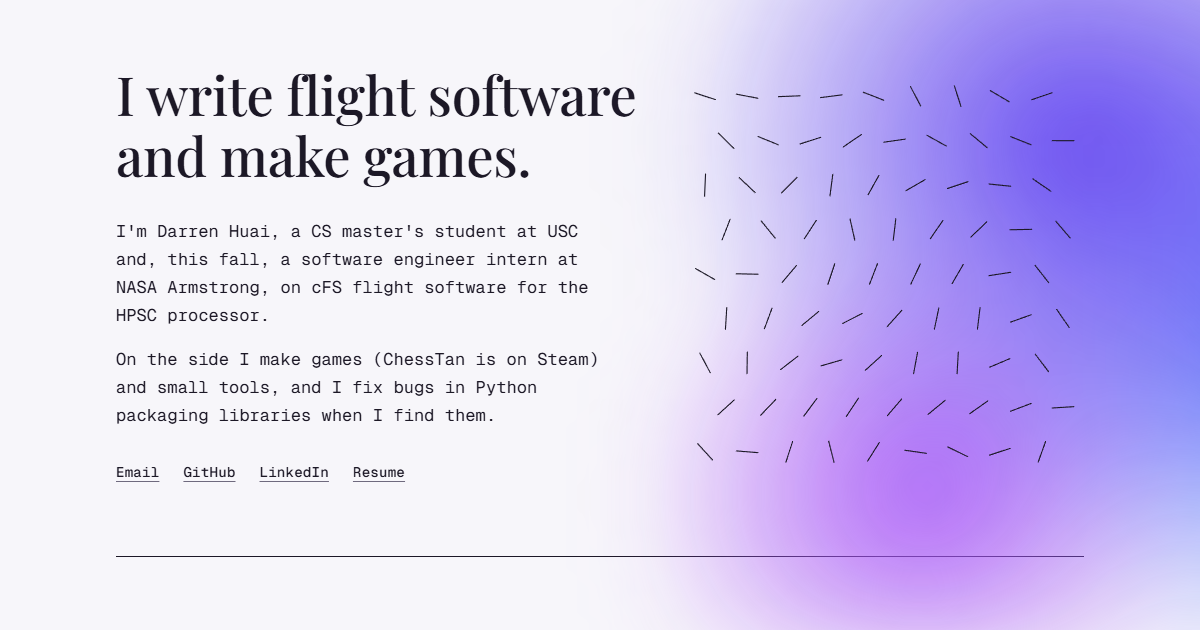
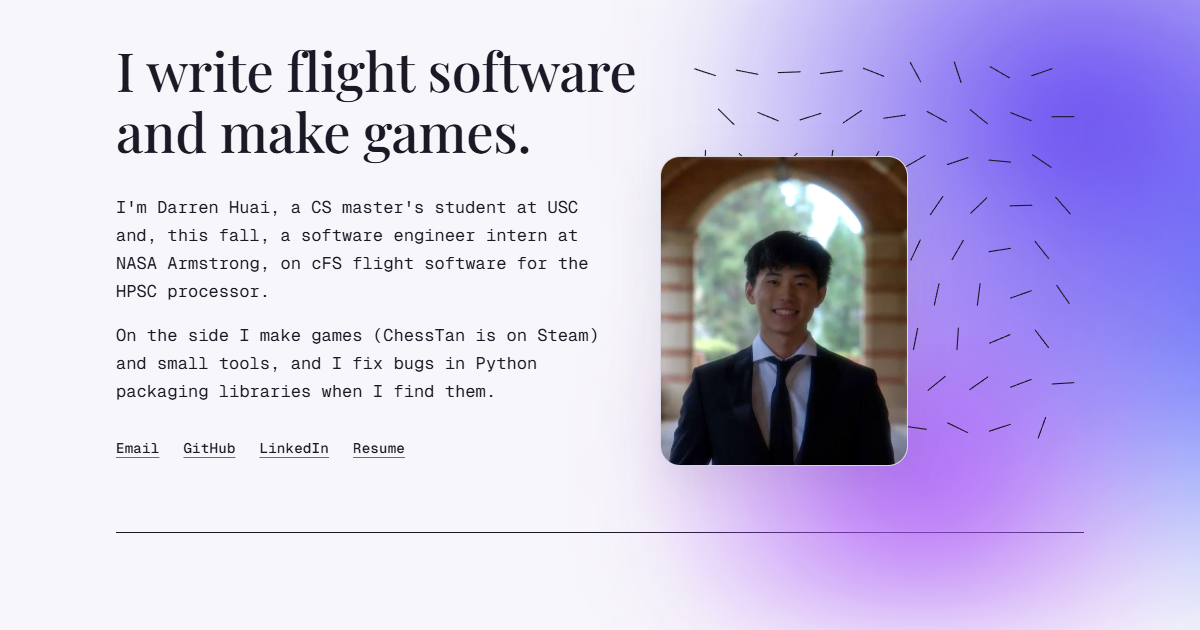
Put the portrait in the hero, over the wash and the tick field

diff --git a/index.html b/index.html
@@ -24,6 +24,7 @@
   <link rel="icon" href="img/favicon.svg" type="image/svg+xml">
   <link rel="preload" href="fonts/playfair-var.woff2" as="font" type="font/woff2" crossorigin>
   <link rel="preload" href="fonts/geistmono-var.woff2" as="font" type="font/woff2" crossorigin>
+  <link rel="preload" as="image" imagesrcset="img/pro_pic-480.webp 480w, img/pro_pic.webp 960w" imagesizes="(min-width: 1024px) 250px, (min-width: 900px) 30vw, 60vw" fetchpriority="high">
   <script>document.documentElement.classList.add("js")</script>
   <link rel="stylesheet" href="styles.css">
   <script type="importmap">{"imports":{"three":"https://cdn.jsdelivr.net/npm/three@0.170.0/build/three.module.min.js"}}</script>
@@ -82,8 +83,14 @@
               <a href="resume.html">Resume</a>
             </p>
           </div>
-          <div class="field-box" aria-hidden="true">
-            <canvas id="hero-field"></canvas>
+          <div class="field-box">
+            <canvas id="hero-field" aria-hidden="true"></canvas>
+            <figure class="plate hero-portrait">
+              <picture>
+                <source type="image/webp" srcset="img/pro_pic-480.webp 480w, img/pro_pic.webp 960w" sizes="(min-width: 1024px) 250px, (min-width: 900px) 30vw, 60vw">
+                <img src="img/pro_pic.jpg" srcset="img/pro_pic-480.jpg 480w, img/pro_pic.jpg 960w" sizes="(min-width: 1024px) 250px, (min-width: 900px) 30vw, 60vw" width="960" height="1200" fetchpriority="high" decoding="async" alt="Darren Huai">
+              </picture>
+            </figure>
           </div>
         </div>
         <hr class="rule hero-rule">
@@ -342,12 +349,6 @@
             <p>As of October 2026: I'm at NASA Armstrong through December. ChessTan 1.1, a rules simplification, is in progress on a branch, and watchglass has fixes queued for v0.1.9. I'm also prototyping a co-op game for one to eight players in Godot, which isn't public yet. Six of my pull requests are open upstream. I finish at USC in May 2027 and I'm looking for 2027 internships and new-grad software engineering roles.</p>
             <p class="about-facts">Los Angeles. US citizen. <a href="mailto:darrenhuai@gmail.com">darrenhuai@gmail.com</a>.</p>
           </div>
-          <figure class="plate portrait" data-reveal="rise">
-            <picture>
-              <source type="image/webp" srcset="img/pro_pic-480.webp 480w, img/pro_pic.webp 960w" sizes="(min-width: 900px) 360px, 100vw">
-              <img src="img/pro_pic.jpg" srcset="img/pro_pic-480.jpg 480w, img/pro_pic.jpg 960w" sizes="(min-width: 900px) 360px, 100vw" width="960" height="1200" loading="lazy" decoding="async" alt="Darren Huai">
-            </picture>
-          </figure>
         </div>
       </div>
     </section>

diff --git a/styles.css b/styles.css
@@ -373,6 +373,17 @@ code {
   width: 100%;
   height: 100%;
 }
+/* the portrait, laid over the lower left of the field like a print on a drafting sheet */
+.field-box .hero-portrait {
+  position: absolute;
+  left: -6%;
+  bottom: -4%;
+  z-index: 2;
+  width: 62%;
+  aspect-ratio: 4 / 5;
+  border-color: var(--line-soft);
+}
+.field-box .hero-portrait img { object-position: 50% 28%; }
 .hero-rule { margin-top: clamp(3rem, 6vw, 5rem); }
 @media (min-width: 900px) {
   .hero-grid { grid-template-columns: minmax(0, 8fr) minmax(0, 4fr); column-gap: var(--s7); min-height: 440px; }
@@ -566,11 +577,8 @@ code {
 .about-text { max-inline-size: 52ch; color: var(--ink); }
 .about-text p + p { margin-top: var(--s4); }
 .about-facts { color: var(--ink); }
-.portrait { width: min(100%, 360px); aspect-ratio: 4 / 5; }
-.portrait img { object-position: 50% 30%; }
 @media (min-width: 900px) {
   .about-grid { grid-template-columns: minmax(0, 7fr) minmax(0, 5fr); column-gap: var(--s9); }
-  .portrait { justify-self: end; }
 }
 
 /* ---------- Contact: the sign-off, with the second wash ---------- */

diff --git a/DESIGN.md b/DESIGN.md
@@ -132,7 +132,7 @@ Layout: a 1080px sheet with a fluid gutter. The hero is 8/4; experience, work, a
 - **Blue**, **Magenta**, **Lavender**: only in the two washes and the selection colour.
 
 ### The washes
-- **Hero:** three radial ellipses (violet, blue, magenta) blurred 46px behind a 420px square canvas of 9x9 tick marks; the wash bleeds off the right edge of the viewport.
+- **Hero:** three radial ellipses (violet, blue, magenta) blurred 46px behind a 400px square canvas of 9x9 tick marks, with the portrait laid over the lower left of the field as a plate; the wash rises behind the nav and bleeds off the right edge of the viewport.
 - **Sign-off:** three radial ellipses (magenta, violet, blue) blurred 40px under a 38px dot grid, left of the name.
 
 ## 3. Typography

diff --git a/docs/design/2026-09-29-redesign-spec.md b/docs/design/2026-09-29-redesign-spec.md
@@ -768,3 +768,7 @@ Three reviewers (fidelity to the reference, AI tells, correctness) read the rebu
 - Case-study headings renamed after their content ("Two games on one board", "Screens with no API", "Thousands of markets", "What a clip cannot show").
 
 Flagged to the owner, not changed: the embedded resume PDF shows his phone number (his file, his call); chesstan-web is still the August build.
+
+### J.2 The portrait (2026-10-06)
+
+Darren asked for his face to stay on the page. The portrait now sits in the hero, a 4:5 plate laid over the lower left of the tick field with the wash behind it, preloaded as the largest paint; About is text only. Mobile stacks it under the intro over the same wash.
